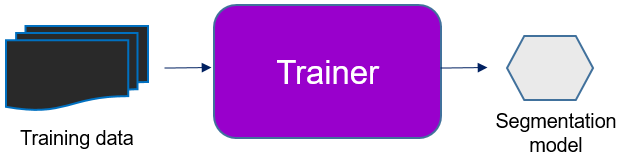
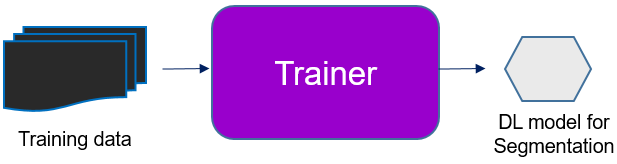
add docs

diff --git a/docs/overview.md b/docs/overview.md
@@ -1,27 +1,31 @@
 # Tutorial:
 
-This is a tutorial on how to use the *Allen Cell Structure Segmenter* including both the classic image segmentation workflow and the iterative deep learning workflow. Please refer
+This is a tutorial on how to use the *Allen Cell Structure Segmenter* including both the classic image segmentation workflow and the iterative deep learning workflow.
 
-Assume we have one or a set of 3D microscopy images tagging a specific intracellular structure. the goal of the *Allen Cell Structure Segmenter* is to generate a binary image of the structures segmentation as accurately as possible for each input image. Details, such as the underlying algorithms, validation, data, etc., can be found in our [bioRxiv paper](https://www.biorxiv.org/content/10.1101/491035v1). The tutorial will focus on how to run the *Allen Cell Structure Segmenter* (including both classic workflows and iterative DL workflows) to get an acuurate segmentation. The execution is based on three building blocks: **Segmenter**, **Curator** and **Trainer**. We will first explain each building blocks and demonstrate the actual execution in a few applications to generate accurate segmentations.
+Assume we have one or a set of 3D microscopy images tagging a specific intracellular structure. the goal of the *Allen Cell Structure Segmenter* is to generate a binary image of the structures segmentation as accurately as possible for each input image. Details, such as the underlying algorithms, validation, data, etc., can be found in our [bioRxiv paper](https://www.biorxiv.org/content/10.1101/491035v1). The tutorial will focus on how to run the *Allen Cell Structure Segmenter* (including both classic workflows and iterative DL workflows) to get an acuurate segmentation. The execution is based on three building blocks: **Binarizer**, **Curator** and **Trainer**. We will first explain each building blocks and demonstrate the actual execution in a few applications to generate accurate segmentations.
 
 ## Understanding each building blocks:
 
-* **Segmenter**: [documentation](./bb1.md)
+* **Binarizer**: [documentation](./bb1.md)
 * **Curator**: [documentation](./bb2.md)
 * **Trainer**: [documentation](./bb3.md)
 
 ## Demos on real examples:
 
+![overview pic](./overview_pic.png)
+
+Above picture shows a flowchart of the actual steps in practice. **Curator** and **Trainer** are used to improve the segentation from **Binarizer** when necessary. Here, we will have demonstration on two examples: first with one **Binarizer** solving the problem and another with more iterations needed.
+
 ### Case 1: Segmentation of ATP2A2 in 3D fluorescent microscopy images of hiPS cells 
 
-(pic here)
+![demo1 pic](./demo1_pic.png)
 
 [Link to the demo documentation](./demo_1.md)
 Link to the demo video
 
 ### Case 2: Segmentation of Lamin B1 in 3D fluorescent microscopy images of hiPS cells 
 
-(pic here)
+![demo2 pic](./demo2_pic.png)
 
 [Link to the demo documentation](./demo_2.md)
 Link to the demo video
